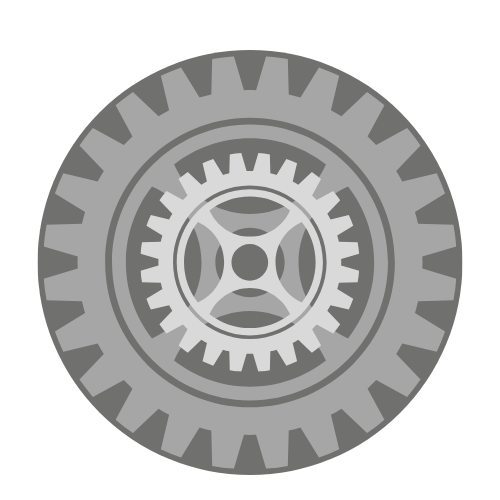
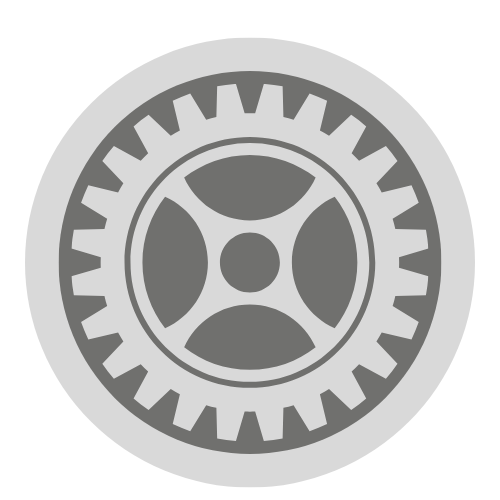
adicionado o sistema de actualização

diff --git a/public/html/settings.html b/public/html/settings.html
@@ -18,19 +18,27 @@
         <a class="hamburger" href="gestão.html">☰</a>
     </header>
 
-    <body>
-        <h2>Importar Dados para o Go Park</h2> <br>
-        <input type="file" id="fileInput" accept=".json"><br>
-        <button onclick="importarDados()">Carregar Dados</button>
+    <div class="formconteiner">
 
-        <script src="importar.js"></script>
-        <script src="../js/index.js"></script>
-        <script src="../js/script.js"></script>
-        <script src="../js/exibir-utente.js"></script>
-        <script src="../js/gestão.js"></script>
-        <script src="../js/consultar.js"></script>
-        <script src="../js/visitente.js"></script>
-        <script src="../js/registros.js"></script>
-    </body>
+        <body>
+            <div class="setting-form">
+                <h2>atualizar</h2> <br>
+                <label class="custom-file-label" for="fileInput">Selecionar Arquivo</label>
+                <input type="file" class="file-input" id="fileInput" accept=".json">
+                <button onclick="importarDados()">Carregar Dados</button>
+
+            </div>
+        </body>
+
+        
+    </div>
+    <script src="../js/importar.js"></script>
+    <script src="../js/index.js"></script>
+    <script src="../js/script.js"></script>
+    <script src="../js/exibir-utente.js"></script>
+    <script src="../js/gestão.js"></script>
+    <script src="../js/consultar.js"></script>
+    <script src="../js/visitente.js"></script>
+    <script src="../js/registros.js"></script>
 
 </html>

diff --git a/public/js/importar.js b/public/js/importar.js
@@ -1,0 +1,22 @@
+function importarDados() {
+    const fileInput = document.getElementById("fileInput");
+    if (fileInput.files.length === 0) {
+        alert("Por favor, selecione um arquivo!");
+        return;
+    }
+
+    const file = fileInput.files[0];
+    const reader = new FileReader();
+
+    reader.onload = function (event) {
+        try {
+            const dados = JSON.parse(event.target.result);
+            localStorage.setItem("carrosPorMarca", JSON.stringify(dados));
+            alert("Dados importados com sucesso!");
+        } catch (error) {
+            alert("Erro ao importar dados! Verifique o arquivo.");
+        }
+    };
+
+    reader.readAsText(file);
+}

diff --git a/public/html/gestão.html b/public/html/gestão.html
@@ -23,7 +23,7 @@
             <a href="listar.html" class="opcao listar">listar</a>
             <a href="consultar.html" class="opcao consultar">consultar</a> 
             <a href="novo.html"class="opcao pagamentos">pagamentos</a>
-            <a href="settings.html"class="opcao settings">definições</a>
+            <a href="settings.html"class="opcao settings">definições</a>z
         </div>
 
     </main>

diff --git a/assets/css/settings.css b/assets/css/settings.css
@@ -1,0 +1,20 @@
+.file-input {
+    opacity: 0;
+    width: 0;
+    height: 0;
+    position: absolute;
+  }
+  .custom-file-label {
+    background-color: gray;
+    color: #fff;
+    display: inline-block;
+    padding: 10px 15px;
+    border-radius: 5px;
+    cursor: pointer;
+  }
+  .setting-form{
+    display: flex;
+    flex-direction: column;
+    gap: 40px;
+    padding: 40px;
+  }

diff --git a/assets/css/styles.css b/assets/css/styles.css
@@ -5,6 +5,7 @@
 @import url(adicionar.css);
 @import url(index.css);
 @import url(novo-utente.css);
+@import url(settings.css);
 @import url('https://fonts.googleapis.com/css2?family=Cabin:ital,wght@0,400..700;1,400..700&display=swap');
 /* HEADER */
 /* HEADER */
